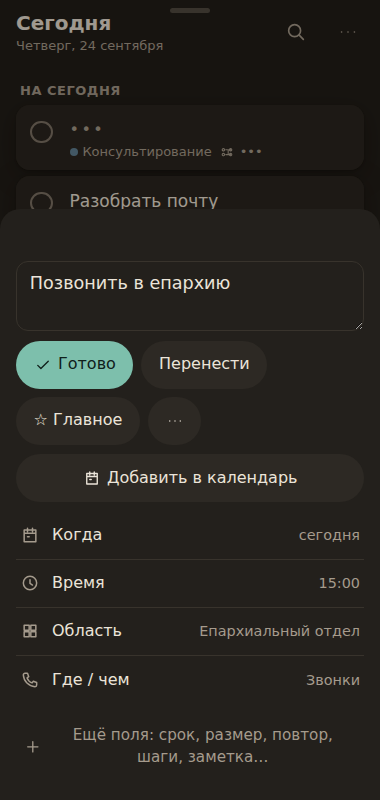
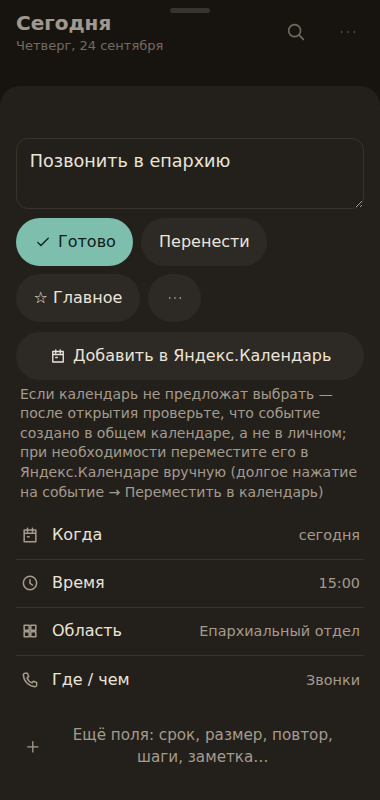
Календарь: сначала «Поделиться» файлом, затем открытие во вкладке без download, скачивание — только по выбору; напоминание про общий календарь
Claude-Session: https://claude.ai/code/session_017GKqcB6R2Wkk87CHjqXcBD

Changed region(s): [[0.0289, 0.4062, 0.9263, 0.625], [0.0289, 0.1562, 0.6658, 0.375], [0.0579, 0.0938, 0.3184, 0.125]]

diff --git a/docs/js/views/calendar.js b/docs/js/views/calendar.js
@@ -1,12 +1,28 @@
-// Один общий календарь (Яндекс) через .ics. Файл скачивается обычной ссылкой-загрузкой:
-// Android открывает его «на просмотр» и предлагает календари. Системное «Поделиться»
-// для .ics не используем — оно показывает мессенджеры, а не календарь.
+// Один общий календарь (Яндекс) через .ics. Порядок попытки:
+// 1) navigator.share с файлом — системное окно «Отправить в…», где есть Яндекс.Календарь;
+// 2) если файлом поделиться нельзя или это упало — открыть файл в текущей вкладке (blob, без download),
+//    чтобы Android сам предложил приложение для содержимого;
+// 3) обычное скачивание — только если в настройках выбран способ «Скачивать файл»
+//    (на случай, если на конкретном телефоне первые два способа не работают).
 import { toast } from '../ui.js';
 import * as st from '../store.js';
 import { buildIcs } from '../ics.js';
 
-export const FILE_HINT = 'Файл сохранён — откройте его из уведомлений или папки Загрузки и выберите Яндекс.Календарь';
+export const HINTS = {
+  shared: 'Выберите Яндекс.Календарь в списке приложений.',
+  opened: 'Если вместо календаря началась загрузка: откройте Загрузки → нажмите на файл → выберите Яндекс.Календарь.',
+  downloaded: 'Файл скачан в Загрузки. Откройте Загрузки → нажмите на файл → выберите Яндекс.Календарь',
+};
+export const CHECK_HINT = 'Если календарь не предложат выбрать — после открытия проверьте, что событие создано в общем календаре, а не в личном; при необходимости переместите его в Яндекс.Календаре вручную (долгое нажатие на событие → Переместить в календарь)';
 export const autoCalendar = () => st.settings().autoCalendar !== false;
+export const calendarMode = () => (st.settings().calendarMode === 'download' ? 'download' : 'auto');
+
+export const calLog = [];
+function log(msg) {
+  calLog.push({ at: new Date().toISOString(), msg });
+  if (calLog.length > 30) calLog.shift();
+  console.info('[календарь] ' + msg);
+}
 
 /** Какое событие получится: 'time' (со временем), 'day' (на весь день), 'deadline' (срок) или null. */
 export function calendarKind(t) {
@@ -16,10 +32,19 @@ export function calendarKind(t) {
   return null;
 }
 
-/** Скачивание файла обычной ссылкой (без побочных меню браузера). */
-export function downloadFile(text, name, type = 'text/calendar') {
-  const blob = new Blob([text], { type: type + ';charset=utf-8' });
-  const url = URL.createObjectURL(blob);
+const TYPE = 'text/calendar';
+
+/** Шаг 2: открыть содержимое в текущей вкладке, без атрибута download. */
+function openInTab(text, name) {
+  // File, а не просто Blob: некоторые браузеры берут из него имя файла
+  const url = URL.createObjectURL(new File([text], name, { type: TYPE }));
+  window.location.href = url;
+  setTimeout(() => URL.revokeObjectURL(url), 60000);
+}
+
+/** Шаг 3 (резерв): обычное скачивание. */
+export function downloadFile(text, name) {
+  const url = URL.createObjectURL(new Blob([text], { type: TYPE }));
   const a = document.createElement('a');
   a.href = url;
   a.download = name;
@@ -27,23 +52,74 @@ export function downloadFile(text, name, type = 'text/calendar') {
   a.style.display = 'none';
   document.body.append(a);
   a.click();
-  // ссылку не отзываем сразу: на Android загрузка начинается не мгновенно
   setTimeout(() => { URL.revokeObjectURL(url); a.remove(); }, 60000);
 }
 
-/** .ics задачи → загрузка. Для закрытых областей в файле только «Встреча». */
-export function sendToCalendar(t, { kind, toastHint = true } = {}) {
-  const k = kind || calendarKind(t);
-  if (!k) return false;
-  const priv = st.isPrivate(t);
-  downloadFile(buildIcs(t, { private: priv, kind: k, now: st.clock() }), (priv ? 'vstrecha' : 'sobytie') + '-' + (t.date || t.deadline || '') + '.ics');
-  if (toastHint) toast(FILE_HINT, { duration: 8000 });
-  return true;
+/**
+ * Передать .ics в календарь. Возвращает 'shared' | 'opened' | 'downloaded' | 'aborted'.
+ * Вызывать прямо из обработчика нажатия: браузер разрешает «Поделиться» только сразу после действия.
+ */
+export async function deliverIcs(text, name, title = 'Событие') {
+  if (calendarMode() === 'download') {
+    downloadFile(text, name);
+    log('скачивание файла (выбрано в настройках)');
+    return 'downloaded';
+  }
+  const file = new File([text], name, { type: TYPE });
+  let can = false;
+  try { can = !!(navigator.share && navigator.canShare && navigator.canShare({ files: [file] })); } catch { can = false; }
+  if (can) {
+    try {
+      await navigator.share({ files: [file], title });
+      log('«Поделиться» с файлом: открыто системное окно');
+      return 'shared';
+    } catch (e) {
+      // человек сам закрыл окно — ничего больше не открываем
+      if (e && e.name === 'AbortError') { log('«Поделиться»: окно закрыто без выбора'); return 'aborted'; }
+      log('«Поделиться» не сработало (' + ((e && e.name) || e) + ') — открываю файл во вкладке');
+    }
+  } else log('браузер не умеет передавать .ics через «Поделиться» — открываю файл во вкладке');
+  try {
+    openInTab(text, name);
+    log('файл открыт во вкладке (blob, без download)');
+    return 'opened';
+  } catch (e) {
+    log('открыть файл во вкладке не удалось (' + ((e && e.message) || e) + ') — скачиваю');
+    downloadFile(text, name);
+    return 'downloaded';
+  }
 }
 
-/** Сразу после сохранения задачи со временем (пока это ещё действие пользователя). */
-export function offerCalendar(t) {
-  if (!t || !autoCalendar() || !t.date || !t.time || t.status !== 'active' || (t.dateKind && t.dateKind !== 'day')) return false;
-  return sendToCalendar(t, { kind: 'time', toastHint: false });
+/** .ics задачи. Для закрытых областей в файле только «Встреча». */
+export function sendToCalendar(t, { kind, toastHint = true } = {}) {
+  const k = kind || calendarKind(t);
+  if (!k) return Promise.resolve(null);
+  const priv = st.isPrivate(t);
+  const text = buildIcs(t, { private: priv, kind: k, now: st.clock() });
+  const name = (priv ? 'vstrecha' : 'sobytie') + '-' + (t.date || t.deadline || '') + '.ics';
+  return deliverIcs(text, name, priv ? 'Встреча' : t.text).then((r) => {
+    if (toastHint && HINTS[r]) toast(HINTS[r], { duration: 8000 });
+    return r;
+  });
 }
-export const CAL_HINT = 'файл для Яндекс.Календаря — в «Загрузках»';
+
+/** Какой способ сработает — чтобы заранее дать точную подсказку в общем тосте (с «Отменить»). */
+export function expectedHint() {
+  if (calendarMode() === 'download') return HINTS.downloaded;
+  try {
+    const f = new File(['x'], 'x.ics', { type: TYPE });
+    if (navigator.share && navigator.canShare && navigator.canShare({ files: [f] })) return HINTS.shared;
+  } catch { /* нет */ }
+  return HINTS.opened;
+}
+
+/**
+ * Сразу после сохранения задачи со временем (пока это ещё действие пользователя).
+ * Возвращает подсказку для тоста вызывающего или null, если календарь не предлагался.
+ */
+export function offerCalendar(t) {
+  if (!t || !autoCalendar() || !t.date || !t.time || t.status !== 'active' || (t.dateKind && t.dateKind !== 'day')) return null;
+  const hint = expectedHint();
+  sendToCalendar(t, { kind: 'time', toastHint: false });
+  return hint;
+}

diff --git a/docs/js/views/session.js b/docs/js/views/session.js
@@ -5,7 +5,7 @@ import { S } from '../store.js';
 import { fmtDay, fmtLong, fmtShort, addDays, dow, DOW_SHORT, dateTime, hm, ymd } from '../dates.js';
 import { encodeSetup, sessionText, linkFor } from '../share.js';
 import { app, isHidden, askPin } from './common.js';
-import { downloadFile, FILE_HINT } from './calendar.js';
+import { deliverIcs, HINTS, CHECK_HINT } from './calendar.js';
 import { buildIcs } from '../ics.js';
 import { appBase } from './share.js';
 
@@ -64,7 +64,7 @@ export function openRecordForm() {
   }
 
   // После сохранения — единственное действие: в общий Яндекс.Календарь (его видят оба).
-  let calDone = false;
+  let calDone = null;
   function confirmView() {
     const r = saved;
     return h('div.added',
@@ -75,13 +75,16 @@ export function openRecordForm() {
       h('button.btn.primary', {
         style: { minHeight: '4rem', fontSize: '1.2rem', padding: '0 2rem', marginTop: '1rem' },
         onclick: () => {
-          downloadFile(sessionIcs(r, st.clock()), 'sessiya-' + r.start.date + '.ics');
-          st.change(() => st.setMeta('recordedSessions', st.meta('recordedSessions', []).map((x) => (x.id === r.id ? { ...x, sent: true } : x))));
-          calDone = true;
-          s.refresh();
+          const ics = sessionIcs(r, st.clock());
+          deliverIcs(ics, 'sessiya-' + r.start.date + '.ics', 'Сессия').then((res) => {
+            if (res !== 'aborted') st.change(() => st.setMeta('recordedSessions', st.meta('recordedSessions', []).map((x) => (x.id === r.id ? { ...x, sent: true } : x))));
+            calDone = res;
+            s.refresh();
+          });
         },
       }, icon('cal', 22), 'Добавить в Яндекс.Календарь'),
-      calDone ? h('p.muted.cal-hint', { style: { maxWidth: '22rem' } }, FILE_HINT) : null);
+      calDone && HINTS[calDone] ? h('p.cal-hint', { style: { maxWidth: '22rem' } }, HINTS[calDone]) : null,
+      h('p.muted.small.cal-hint', { style: { maxWidth: '22rem' } }, CHECK_HINT));
   }
 }
 
@@ -188,10 +191,10 @@ export function sessionScreen(obj) {
     s.close();
     const label = r.group ? (st.isPrivate({ areaId: r.group.areaId }) ? r.group.templateName : r.group.title) : 'Сессия';
     // и сразу — в общий календарь (для закрытой области там будет просто «Встреча»)
-    const { offerCalendar, CAL_HINT } = await import('./calendar.js');
+    const { offerCalendar } = await import('./calendar.js');
     const anchorT = (r.tasks || []).find((x) => x.isAnchor) || (r.tasks || [])[0];
     const cal = anchorT && offerCalendar(S.tasks.get(anchorT.id));
-    toast('В плане: ' + label + ' — ' + fmtDay(cur.start.date, now) + (cur.start.time ? ' ' + cur.start.time : '') + (cal ? ' · ' + CAL_HINT : ''), { action: 'Отменить', onAction: () => r.undo() });
+    toast('В плане: ' + label + ' — ' + fmtDay(cur.start.date, now) + (cur.start.time ? ' ' + cur.start.time : '') + (cal ? '. ' + cal : ''), { action: 'Отменить', onAction: () => r.undo(), duration: cal ? 10000 : undefined });
   }
 }
 

diff --git a/docs/js/views/settings.js b/docs/js/views/settings.js
@@ -7,6 +7,7 @@ import { fmtDay, DOW_SHORT, DOW_FULL, ymd, fmtShort } from '../dates.js';
 import { app, taskRow, emptyState, sectionHead, hiddenArea, unlockArea } from './common.js';
 import { describeBlock } from '../blocks.js';
 import { install, checkInstall, standalone, browserName } from '../install.js';
+import { calLog } from './calendar.js';
 
 export function openSettings() {
   const s = sheet(() => {
@@ -25,7 +26,15 @@ export function openSettings() {
         if (v) st.setSettings({ yearStart: v });
       }),
       h('button.line-btn', { role: 'switch', 'aria-checked': String(cfg.autoCalendar !== false), onclick: () => st.setSettings({ autoCalendar: cfg.autoCalendar === false }) },
-        icon('cal', 20), h('span.grow', 'Автоматически предлагать календарь', h('div.muted.small', 'После сохранения задачи со временем — сразу файл .ics для Яндекс.Календаря')), h('span.switch' + (cfg.autoCalendar !== false ? '.on' : ''))),
+        icon('cal', 20), h('span.grow', 'Автоматически предлагать календарь', h('div.muted.small', 'После сохранения задачи со временем — сразу передать событие в Яндекс.Календарь')), h('span.switch' + (cfg.autoCalendar !== false ? '.on' : ''))),
+      line('cal', 'Как передавать в календарь', cfg.calendarMode === 'download' ? 'скачивать файл' : 'сразу открыть', async () => {
+        const v = await choose('Как передавать в календарь', [
+          { label: 'Сразу открыть', hint: 'рекомендуется', value: 'auto', primary: cfg.calendarMode !== 'download' },
+          { label: 'Скачивать файл', value: 'download', primary: cfg.calendarMode === 'download' },
+        ], { text: '«Сразу открыть»: окно «Отправить в…» с Яндекс.Календарём, а если браузер так не умеет — файл открывается во вкладке. «Скачивать файл» — запасной способ, если на вашем телефоне первый не работает: файл ляжет в Загрузки, откуда его открывают вручную.'
+          + (calLog.length ? ' Последняя попытка: ' + calLog[calLog.length - 1].msg + '.' : '') });
+        if (v) st.setSettings({ calendarMode: v });
+      }),
       line('lock', 'PIN для закрытых областей', cfg.pinHash ? 'задан' : 'нет', () => pinSheet()),
       line('download', 'Установка на рабочий стол', null, () => installSheet()),
       line('download', 'Резервная копия', st.meta('lastExport') ? fmtDay(st.meta('lastExport').slice(0, 10), st.clock()) : 'не было', () => backupSheet()),

diff --git a/docs/js/views/compose.js b/docs/js/views/compose.js
@@ -9,7 +9,7 @@ import { describe as describeRepeat } from '../recur.js';
 import { pickArea, pickPerson, pickRepeat, pickContext, pickSize, pickTemplate } from './pickers.js';
 import { findCode, decode } from '../share.js';
 import { app } from './common.js';
-import { offerCalendar, CAL_HINT } from './calendar.js';
+import { offerCalendar } from './calendar.js';
 
 export function parseCtx() {
   return {
@@ -402,8 +402,8 @@ export async function createFromParse(m) {
   // сразу вслед за сохранением — системный выбор приложения для .ics (иначе браузер не разрешит)
   const cal = offerCalendar(t);
   let where = m.done ? 'Записано в сделанное' : t.inbox ? 'Во «Входящие»' : t.date ? 'Добавлено: ' + dateLabel(t.date, t.dateKind, now) : 'Добавлено';
-  if (cal) where += ' · ' + CAL_HINT;
-  toast(where, { action: 'Отменить', onAction: () => r.undo() });
+  if (cal) where += '. ' + cal;
+  toast(where, { action: 'Отменить', onAction: () => r.undo(), duration: cal ? 10000 : undefined });
   buzz(8);
   return { task: t, undo: r.undo, message: where, saved: r.saved };
 }
@@ -458,8 +458,9 @@ export async function launchFromParse(m) {
   }
   let msg = 'Цепочка: ' + (st.isPrivate({ areaId: r.group.areaId }) ? tpl.name : r.group.title);
   const anchorT = r.tasks.find((x) => x.isAnchor);
-  if (anchorT && offerCalendar(S.tasks.get(anchorT.id))) msg += ' · ' + CAL_HINT;
-  toast(msg, { action: 'Отменить', onAction: () => r.undo() });
+  const calHint = anchorT && offerCalendar(S.tasks.get(anchorT.id));
+  if (calHint) msg += '. ' + calHint;
+  toast(msg, { action: 'Отменить', onAction: () => r.undo(), duration: calHint ? 10000 : undefined });
   buzz(8);
   return { group: r.group, undo: r.undo, message: msg, saved: r.saved };
 }

diff --git a/docs/js/views/task.js b/docs/js/views/task.js
@@ -8,14 +8,14 @@ import { describe as describeRepeat } from '../recur.js';
 import { app, isHidden, reveal, complete, reschedule, deadlineLabel, personLabel, hiddenArea } from './common.js';
 import { pickArea, pickPerson, pickRepeat, pickContext, pickSize } from './pickers.js';
 import { describeOffset } from '../chain.js';
-import { calendarKind, sendToCalendar, FILE_HINT } from './calendar.js';
+import { calendarKind, sendToCalendar, HINTS, CHECK_HINT } from './calendar.js';
 
 export function openTask(id) {
   let t = S.tasks.get(id);
   if (!t) return;
   if (isHidden(t)) { reveal(t); return; }
   let showAll = false;
-  let calShown = false;
+  let calShown = null;
   let unsub = null;
   const s = sheet((api) => {
     t = S.tasks.get(id);
@@ -199,9 +199,10 @@ export function openTask(id) {
     const calKind = calendarKind(t);
     const calBox = calKind && !done ? h('div.cal-box',
       h('button.btn.block', {
-        onclick: () => { sendToCalendar(S.tasks.get(id), { kind: calKind, toastHint: false }); calShown = true; s.refresh(); },
-      }, icon('cal', 18), 'Добавить в календарь'),
-      calShown ? h('p.muted.small.cal-hint', FILE_HINT) : null) : null;
+        onclick: () => { sendToCalendar(S.tasks.get(id), { kind: calKind, toastHint: false }).then((r) => { calShown = r; s.refresh(); }); },
+      }, icon('cal', 18), 'Добавить в Яндекс.Календарь'),
+      calShown && HINTS[calShown] ? h('p.small.cal-hint', HINTS[calShown]) : null,
+      h('p.muted.small.cal-hint', CHECK_HINT)) : null;
 
     return h('div.form',
       priv ? h('div.muted.small', icon('lock', 14), ' Закрытая область: задачу нельзя отправить; в календарь уйдёт нейтральный текст «Встреча».') : null,

diff --git a/docs/js/views/share.js b/docs/js/views/share.js
@@ -31,7 +31,7 @@ export async function sendTask(t) {
   // у задачи с датой и временем другой путь — общий календарь (его видят оба)
   if (t.date || t.time) {
     const { sendToCalendar } = await import('./calendar.js');
-    sendToCalendar(t);
+    await sendToCalendar(t);
     return false;
   }
   const c = await pickContact('Отправить задачу');

diff --git a/docs/sw.js b/docs/sw.js
@@ -1,5 +1,5 @@
 // Service worker: кэш всего приложения. Данные (IndexedDB) он не трогает.
-const VERSION = 'v5';
+const VERSION = 'v6';
 const CACHE = 'planner-' + VERSION;
 const FILES = [
   './',

diff --git a/README.md b/README.md
@@ -138,16 +138,26 @@ GitHub Pages нужен только для того, чтобы один раз
 на редактирование, он же — календарь по умолчанию у обоих.
 
 **Как дела попадают в календарь.** Когда вы сохраняете задачу с датой и временем — любую,
-семейную, рабочую или клиентскую, — приложение сразу сохраняет файл события `.ics` обычной
-загрузкой. **Откройте его из уведомления о загрузке (или из папки «Загрузки») и выберите
-Яндекс.Календарь** — событие добавится в общий календарь, который видит и жена. Выбор
-приложения при открытии — последний шаг, убрать его нельзя: так устроен Android.
-Системное «Поделиться» для этого не используется: оно показывает мессенджеры, а не календари.
-Так же ведут себя запуск цепочки (в календарь уходит сама встреча, например сессия)
-и «Записать сессию» у жены.
+семейную, рабочую или клиентскую, — или нажимаете **«Добавить в Яндекс.Календарь»**,
+приложение пробует по порядку:
 
-В карточке любой задачи с датой (со временем или на весь день) и у задачи со сроком всегда
-видна кнопка **«Добавить в календарь»**; после нажатия под ней появляется подсказка, где файл.
+1. **Окно «Отправить в…»** с файлом события — выберите в нём Яндекс.Календарь. Так бывает, если
+   браузер умеет передавать такие файлы.
+2. Если не умеет — **открывает файл события во вкладке**, чтобы телефон сам предложил приложение.
+   Браузеры на движке Chrome (сам Chrome и, скорее всего, Яндекс.Браузер) в этом случае файл
+   не показывают, а начинают загрузку. Тогда подсказка под кнопкой скажет, что делать:
+   откройте Загрузки → нажмите на файл → выберите Яндекс.Календарь.
+3. Если на вашем телефоне это неудобно, в **Настройках → «Как передавать в календарь»** можно
+   выбрать **«Скачивать файл»**: файл сразу ляжет в Загрузки, подсказка будет такой:
+   «Файл скачан в Загрузки. Откройте Загрузки → нажмите на файл → выберите Яндекс.Календарь».
+   Там же видно, чем закончилась последняя попытка.
+
+Под кнопкой всегда есть напоминание: если календарь не предложили выбрать, после открытия
+проверьте, что событие создано в **общем** календаре, а не в личном; при необходимости
+переместите его в Яндекс.Календаре вручную (долгое нажатие на событие → «Переместить в календарь»).
+
+Кнопка **«Добавить в Яндекс.Календарь»** всегда есть в карточке любой задачи с датой (со временем
+или на весь день) и у задачи со сроком.
 
 **Переключатель «Автоматически предлагать календарь»** (Меню → Настройки, включён сразу).
 Включён — файл события сохраняется сам сразу после сохранения задачи со временем.

diff --git a/DECISIONS.md b/DECISIONS.md
@@ -281,3 +281,31 @@
 после небольшой «вовлечённости» (касание и ~30 с), во встроенном браузере мессенджера установки
 нет вовсе, а если репозиторий приватный и Pages не опубликован, сайта нет совсем. Если на телефоне
 установка всё равно не предлагается, экран самопроверки покажет, какое условие не выполнено.
+
+### Передача .ics: открыть, а не скачать
+**Было:** файл всегда скачивался через `<a download>` («Начинается загрузка»), и его приходилось
+искать в Загрузках.
+**Стало** — порядок попытки (модуль `views/calendar.js`, функция `deliverIcs`):
+1. `navigator.canShare({files:[ics]})` → `navigator.share({files, title})` — системное окно «Отправить в…».
+   Если человек сам закрыл окно (`AbortError`) — больше ничего не открываем.
+2. Если файлом поделиться нельзя или `share` упал с другой ошибкой — `window.location.href =
+   URL.createObjectURL(new File([ics], имя, {type: 'text/calendar'}))` в текущей вкладке, без `download`.
+3. Обычное скачивание — только если в настройках выбран способ «Скачивать файл» (или шаг 2 бросил
+   исключение). Подсказка тогда точная: «Файл скачан в Загрузки. Откройте Загрузки → нажмите на файл →
+   выберите Яндекс.Календарь».
+Каждый шаг пишется в консоль с префиксом `[календарь]`; последняя запись видна в «Настройки →
+Как передавать в календарь». Под кнопкой всегда — напоминание проверить, что событие попало
+в общий, а не в личный календарь.
+Подсказка после автоматической передачи (сразу после сохранения) встроена в тот же тост, что и
+«Отменить», — иначе она вытесняла тост и пропадала отмена.
+
+**Что известно и что не проверено.** В Chromium (проверено тестом) шаг 2 не показывает файл, а
+превращается в загрузку: Chromium не умеет отображать `text/calendar` и скачивает его (с именем
+вида `<uuid>.ics`), приложение при этом остаётся на месте. По спискам разрешённых типов Web Share
+в Chromium `.ics`/`text/calendar` в них нет, поэтому в Chrome на Android шаг 1, скорее всего,
+недоступен и сработает шаг 2 — то есть снова загрузка, но с честной подсказкой. Яндекс.Браузер
+сделан на Chromium и, вероятно, ведёт себя так же; на реальном Android-телефоне это не проверено —
+у меня нет устройства. Если на телефоне шаг 1 не работает, а загрузка неудобна, надёжно открыть
+именно экран нового события можно через `intent:`-ссылку Android (`action=INSERT` с названием и
+временем) — но это уже не файл `.ics`, и работает, только если Яндекс.Календарь принимает такой
+запрос; можно добавить отдельным способом в настройках, если захотите.
